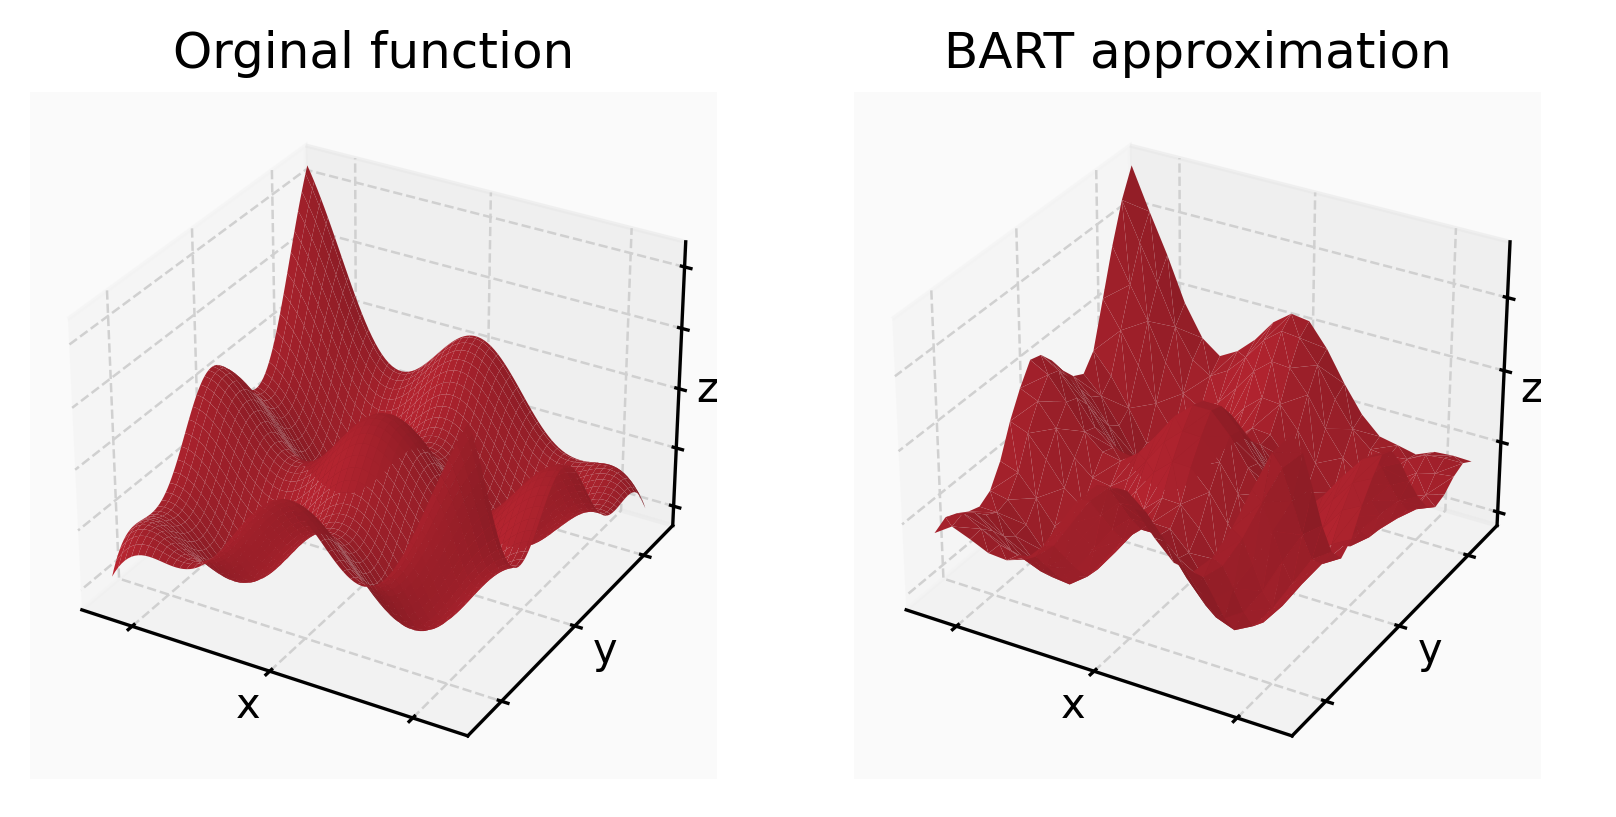
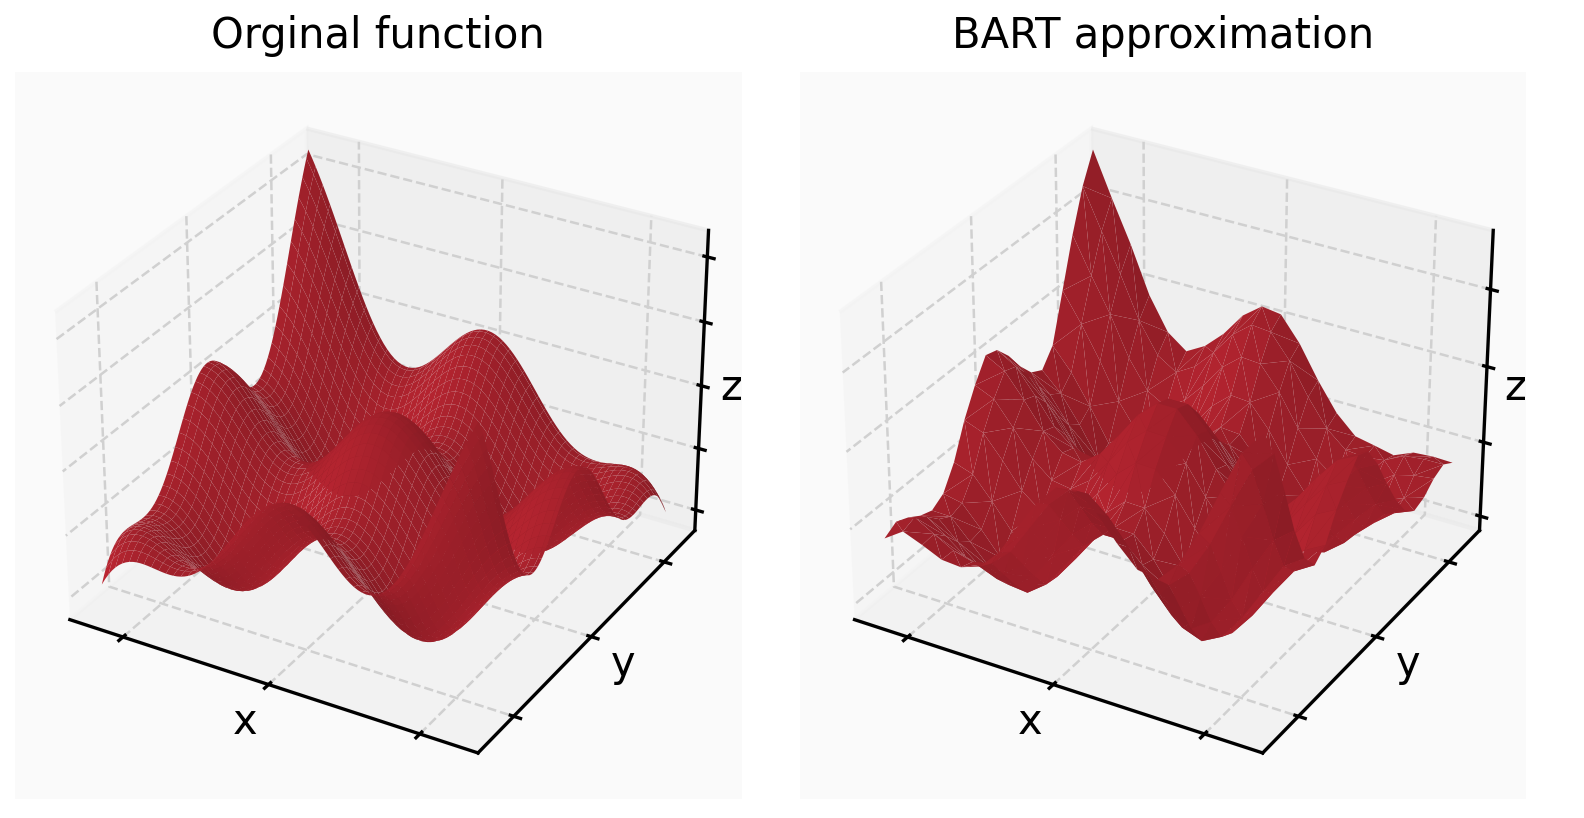
Updated README. Updates graph style.

diff --git a/README.md b/README.md
@@ -31,6 +31,16 @@ BART is a Bayesian sum-of-trees model for regression and classification. It mode
 
 The individual trees are regularized to act as weak learners, and fitting is done with a **Bayesian backfitting MCMC algorithm**. This allows for simple posterior inference such as determining _uncertainty intervals_, _partial dependence_ or _variable importance_.
 
+## Installation
+
+For a local editable install from the repository root:
+
+```bash
+pip install -e .
+```
+
+Since GenBART includes a compiled C++ backend, installation requires a working Python/C++ build environment.
+
 ## Implemented components
 
 ### Python interface
@@ -47,6 +57,14 @@ The individual trees are regularized to act as weak learners, and fitting is don
 - Bayesian backfitting engine
 - dense posterior forest representation for faster prediction
 
+## Implementation overview
+
+The package is split into a user-facing Python layer and a compiled C++ backend.
+
+- The **Python layer** contains the main model interfaces, fitting workflow, posterior summaries, and interpretation utilities.
+- The **C++ layer** handles the computationally heavy parts of the algorithm: tree proposals, Bayesian backfitting sweeps and posterior prediction.
+
+This makes the code easy to understand for writing BART variants, while the efficient C++ layer yields much faster backfitting and prediciton.
 
 ## Minimal example
 
@@ -81,4 +99,6 @@ GenBART is actively evolving. The core functionality is already usable for exper
 Chipman, H. A., George, E. I., and McCulloch, R. E. (2010). **BART: Bayesian Additive Regression Trees.**  *The Annals of Applied Statistics*, 4(1), 266-298.
 
 ## License
+This project is released under the **MIT License**.
 
+See the [LICENSE](LICENSE) file for details.